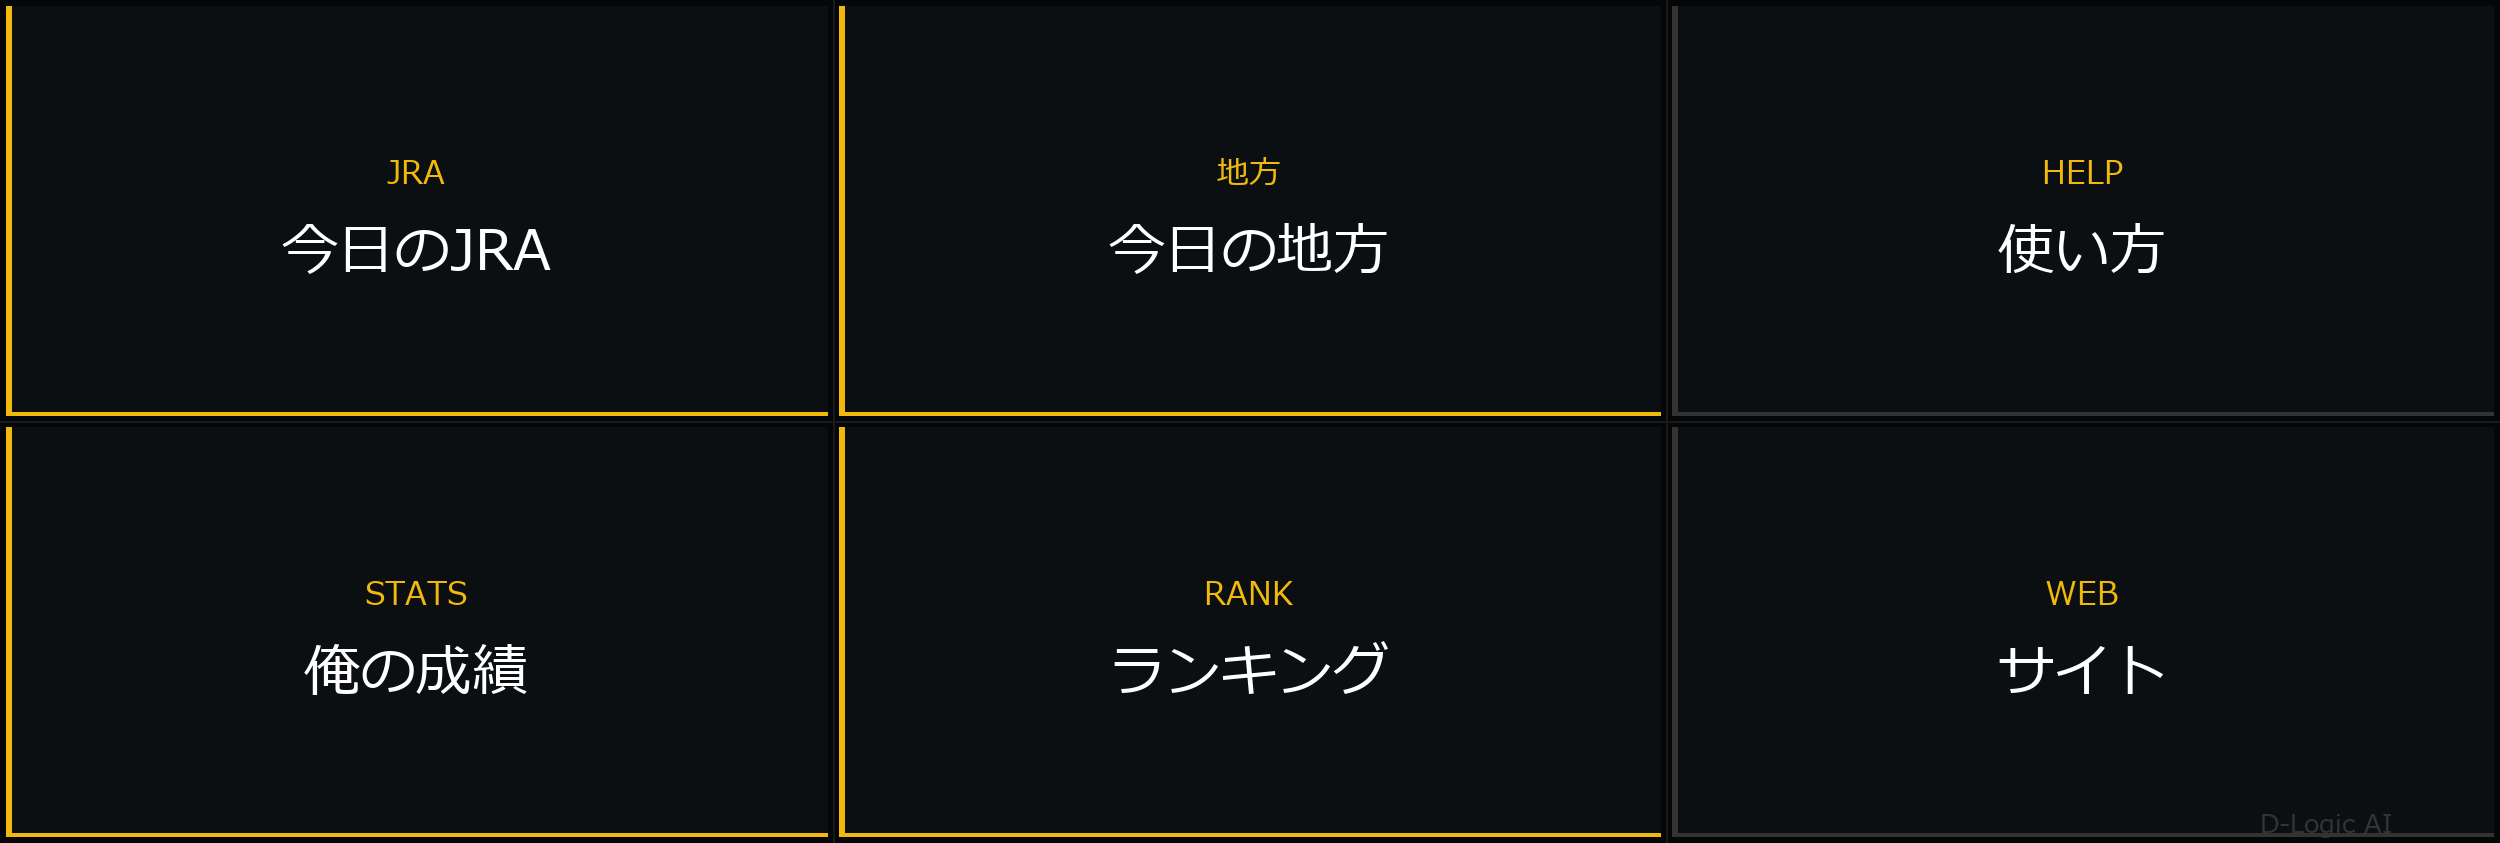
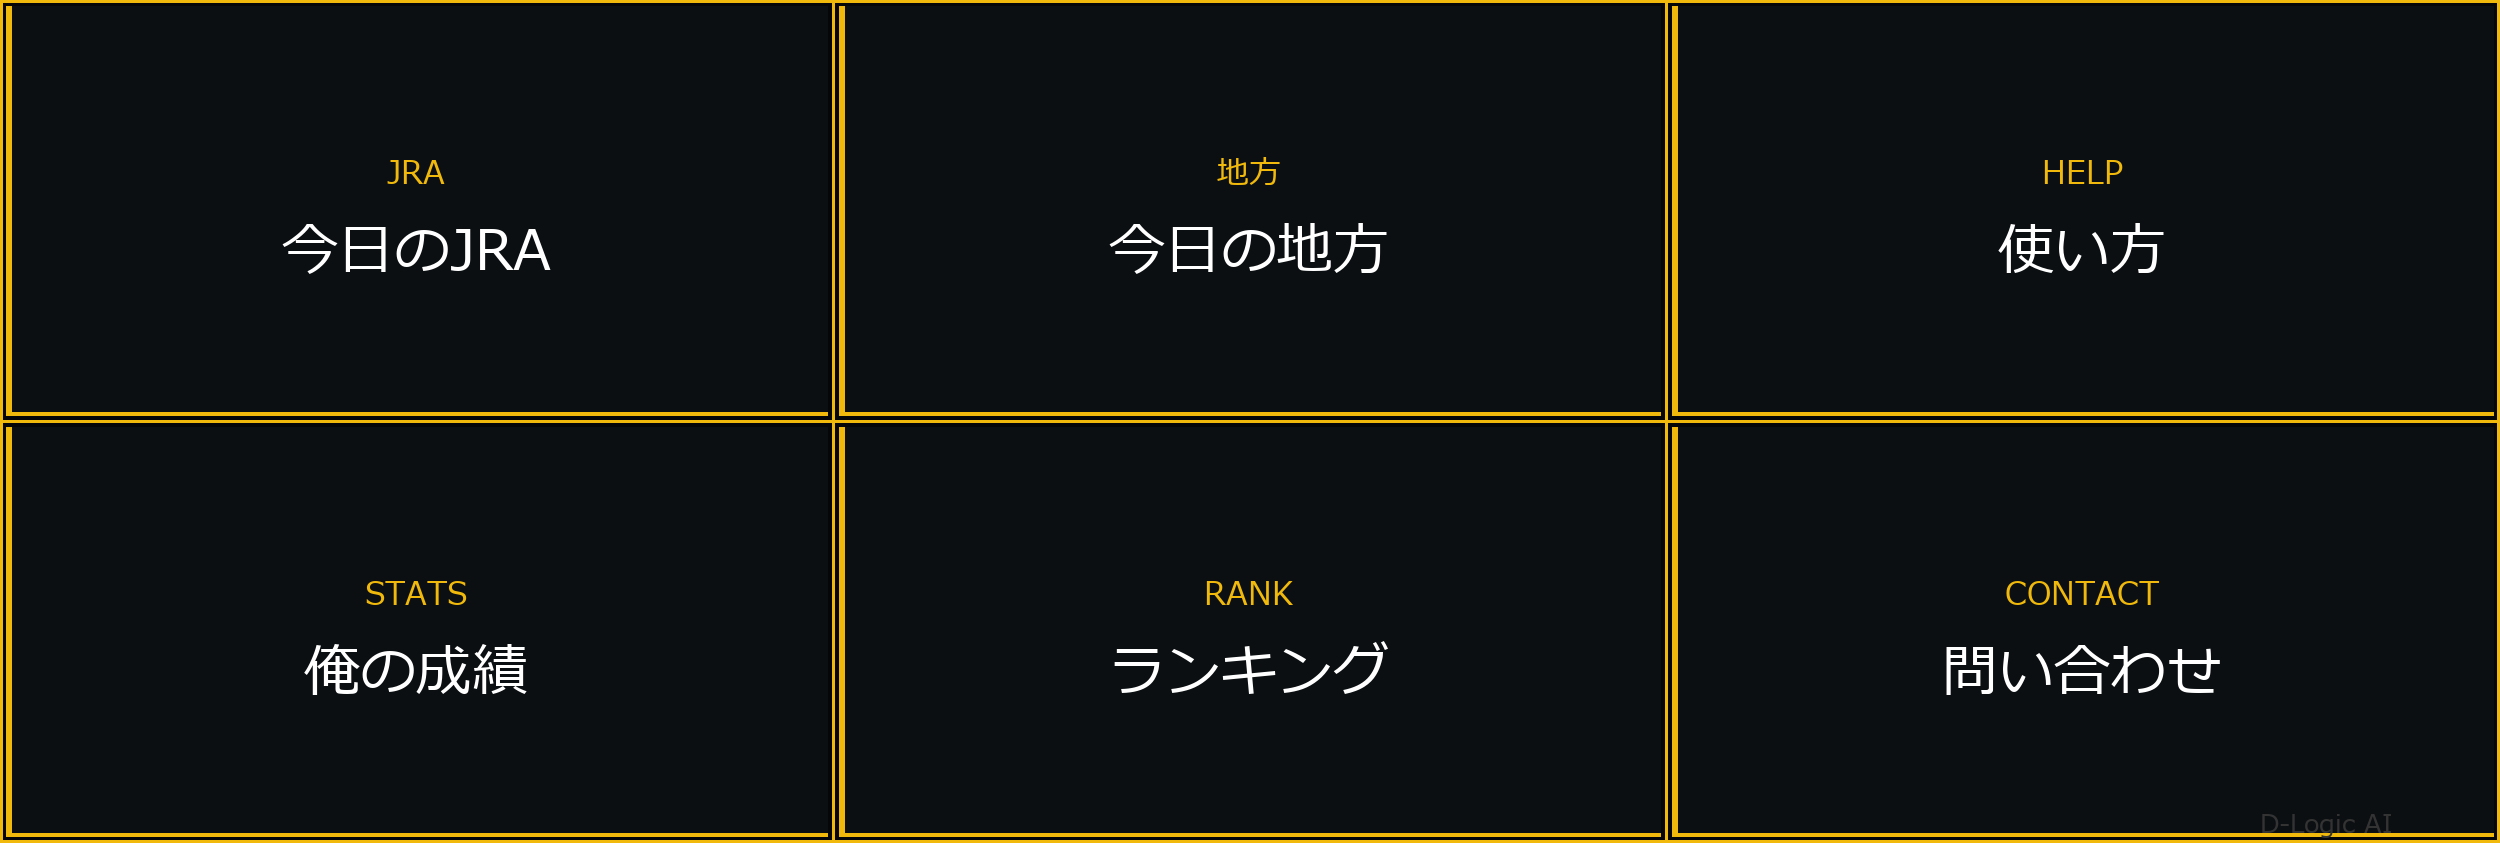
WebChat quick replies, trailing slash fix, tool definitions update
- chat_core.py: context-sensitive quick replies for web
- web_chat.py: include quick_replies in SSE done event
- app.py: strict_slashes=False for Next.js rewrite compatibility
- tools/definitions.py: updated tool schemas
- Added Dロジくん logo asset

Changed region(s): [[0.0, 0.0, 1.0, 1.0], [0.78, 0.7711, 0.9048, 0.8327], [0.8112, 0.6785, 0.8736, 0.7402]]

diff --git a/tools/definitions.py b/tools/definitions.py
@@ -276,4 +276,27 @@ TOOLS = [
             "required": ["race_id"]
         }
     },
+    {
+        "name": "send_inquiry",
+        "description": "ユーザーからの問い合わせ・不具合報告・要望を運営に送信します。ユーザーが「問い合わせ」「エラー報告」「要望」「バグ」「おかしい」「動かない」等の意図を示した場合に使ってください。送信前にユーザーに内容を確認すること。",
+        "input_schema": {
+            "type": "object",
+            "properties": {
+                "category": {
+                    "type": "string",
+                    "enum": ["bug", "request", "question", "other"],
+                    "description": "問い合わせ種別。bug=不具合報告、request=要望、question=質問、other=その他"
+                },
+                "summary": {
+                    "type": "string",
+                    "description": "問い合わせ内容の要約（1-2文）"
+                },
+                "detail": {
+                    "type": "string",
+                    "description": "詳細な内容（ユーザーの発言を含む）"
+                }
+            },
+            "required": ["category", "summary"]
+        }
+    },
 ]

diff --git a/scripts/setup_richmenu.py b/scripts/setup_richmenu.py
@@ -73,7 +73,7 @@ def generate_image(output_path: str):
         ("HELP",  "使い方",     False),
         ("STATS", "俺の成績",   True),
         ("RANK",  "ランキング", True),
-        ("WEB",   "サイト",     False),
+        ("CONTACT", "問い合わせ", False),
     ]
 
     for idx, (sub, label, is_primary) in enumerate(buttons):
@@ -170,7 +170,7 @@ def create_richmenu() -> str:
             },
             {
                 "bounds": {"x": cell_w * 2, "y": cell_h, "width": cell_w, "height": cell_h},
-                "action": {"type": "uri", "uri": "https://www.dlogicai.in/"}
+                "action": {"type": "message", "text": "問い合わせしたい"}
             },
         ]
     }
